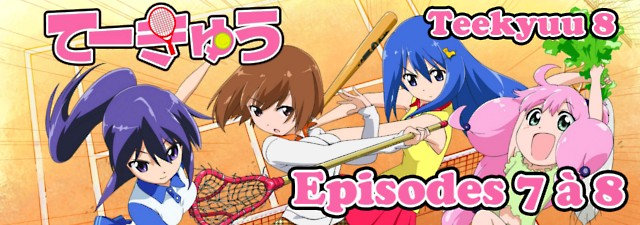
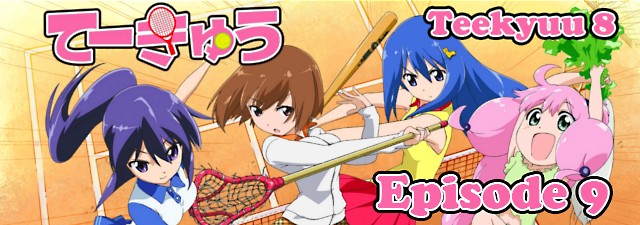
new release

diff --git a/2016-12-04.html b/2016-12-04.html
@@ -1,0 +1,105 @@
+<!DOCTYPE html>
+<html lang="fr-FR">
+	<head>
+		<title>Teekyuu Saison 8 Ep 9 vostfr | Nobluesky Fansub</title>
+		<meta charset="utf-8" />
+		<meta name=viewport content="width=980">
+		<link rel="Shortcut Icon" type="image/x-icon" href="favicon.ico" />
+		<link href="fonts/fonts.css" rel="stylesheet" type="text/css" />
+		<link href="style.css" rel="stylesheet" type="text/css" media="screen" />
+		<link rel="stylesheet" href="menu.css" type="text/css" />
+		<script src="jquery.js" type="text/javascript"></script>
+		<script src="background-script.js" type="text/javascript"></script>
+	</head>
+<body>
+<div class="banner">
+	<a title="Nobluesky Fansub" href="index.html"> <img class="banner" alt="Nobluesky Fansub" title="Nobluesky Fansub" src="images/banner.png"/> </a>
+</div>
+<!-- end banner -->
+<div id="menu-wrapper">
+	<div id="menu">
+		<script type="text/javascript">
+		$( '#menu' ).load( 'menu.html' );
+		</script>
+		<noscript>Activez javascript pour voir le menu!</noscript>
+	</div>
+</div>
+<!-- end #menu -->
+<div id="page-wrapper">
+<div id="sidebar-wrapper">
+	<div id="sidebar">
+		<script type="text/javascript">
+		$( '#sidebar' ).load( 'sidebar.html' );
+		</script>
+	</div>
+	<!-- end #sidebar -->
+</div>
+	<div id="article">
+		<div id="content">
+			<div class="post">
+				<h1 class="title">Teekyuu Saison 8 Ep 9 vostfr</h1>
+				<p class="meta"><span class="date">4 Décembre 2016</span><span class="posted">Posté par <a href="about.html#nobluesky">Nobluesky</a></span></p>
+				<div style="clear: both;">&nbsp;</div>
+				<div class="entry">
+					<img class="post-images" src="images/2016/news28.jpg" alt="" />
+					<p>Bonjouur~~</p>
+					<p>Voici l'épisode 9 de Teekyuu !</p>
+					<p>Avec des beaux édits tous frais, je n'en parle plus car ça devient banal. Mais comme je les fais tous, il faut bien que je m'en vante !</p>
+					<p>Une histoire. Une séparation, puis... Une rencontre qui changea sa vie.</p>
+					<p>Découvrez ce préquel sur l'histoire de Kanae, un moment touchant et inoubliable !</p>
+					<p>A bientôt, chers <strike>abonnés</strike> leechers !</p>
+					<h3>Téléchargements et streaming</h3>
+					<p class="links dl"><a href="http://jheberg.net/captcha/tks8-09/" class="button-dl">Jheberg</a></p>&nbsp; | &nbsp;
+					<p class="links dl"><a href="https://rutube.ru/video/4cf7896fe59e118e437283c287389ec8/" class="button-dl">Rutube</a></p>&nbsp; | &nbsp;
+					<p class="links dl"><a href="https://mega.nz/#!XA8kUboS!Zz4niNtHt3lF2RErqutFhp7wWtdoI3nh_EdLDsK6Drk" class="button-dl">Mega</a></p>&nbsp; | &nbsp;
+					<p class="links dl"><a href="https://openload.co/f/m3WdooxJByg/TKS8-09.mp4" class="button-dl">Openload</a></p>
+					<h3>Commentaires</h3>
+					<div id="disqus_thread"></div>
+					<script type="text/javascript">
+						/* * * CONFIGURATION VARIABLES: EDIT BEFORE PASTING INTO YOUR WEBPAGE * * */
+						var disqus_shortname = 'noblueskyfansub'; // required: replace example with your forum shortname
+
+						/* * * DON'T EDIT BELOW THIS LINE * * */
+						(function() {
+							var dsq = document.createElement('script'); dsq.type = 'text/javascript'; dsq.async = true;
+							dsq.src = '//' + disqus_shortname + '.disqus.com/embed.js';
+							(document.getElementsByTagName('head')[0] || document.getElementsByTagName('body')[0]).appendChild(dsq);
+						})();
+					</script>
+					<noscript>Activez javascript pour voir les commentaires.</noscript>
+					<a href="http://disqus.com" class="dsq-brlink">commentaires propulsés par <span class="logo-disqus">Disqus</span></a>
+				</div>
+			</div>
+			<div style="clear: both;">&nbsp;</div>
+		</div>
+		<!-- end #content -->
+		<div style="clear: both;">&nbsp;</div>
+	</div>
+</div>
+<!-- end #page -->
+<script type="text/javascript">
+$(window).scroll(function() {
+    if ($(this).scrollTop() < 1000) {
+        $("#footer").hide();
+    }
+    else {
+        $("#footer").show();
+    }
+});
+$(window).scroll(function() {
+  if ($(this).scrollTop() < 1000) {
+    $("footer").slideUp();
+      }
+  else {
+    $("footer").slideDown();
+      }
+});		
+</script>
+<div id="footer">
+	<script type="text/javascript">
+	$( '#footer' ).load( 'footer.html' );
+	</script>
+</div>
+<!-- end #footer -->
+</body>
+</html>

diff --git a/index.html b/index.html
@@ -36,7 +36,7 @@
 	<div class="slider-wrapper theme-default">
 		<div class="ribbon"></div>
 		<div id="slider" class="nivoSlider">
-			<a href="2016-11-27.html"><img src="images/img02.jpg" alt="" /></a><a href="2016-10-30.html"><img src="images/img01.jpg" alt="" /></a>
+			<a href="2016-12-04.html"><img src="images/img02.jpg" alt="" /></a><a href="2016-10-30.html"><img src="images/img01.jpg" alt="" /></a>
 		</div>
 	</div>
 <script type="text/javascript">
@@ -60,6 +60,21 @@
 				<div style="clear: both;">&nbsp;</div>
 				<div class="entry">
 					<p>Bienvenue sur le site de la Nobluesky Fansub !</p>
+				</div>
+			</div>
+			<div class="post">
+				<h1 class="title"><a href="2016-12-04.html">Teekyuu Saison 8 Ep 9 vostfr</a></h1>
+				<p class="meta"><span class="date">04 Décembre 2016</span><span class="posted">Posté par <a href="about.html#nobluesky">Nobluesky</a></span></p>
+				<p class="comcount"><a href="http://nobluesub.com/2016-12-04.html#disqus_thread">Commentaires</a></p>
+				<div style="clear: both;">&nbsp;</div>
+				<div class="entry">
+					<img class="post-images" src="images/2016/news33.jpg" alt="" />
+					<p>Bonjouur~~</p>
+					<p>Voici l'épisode 9 de Teekyuu !</p>
+					<p>Avec des beaux édits tous frais, je n'en parle plus car ça devient banal. Mais comme je les fais tous, il faut bien que je m'en vante !</p>
+					<p>Une histoire. Une séparation, puis... Une rencontre qui changea sa vie.</p>
+					<p>Découvrez ce préquel sur l'histoire de Kanae, un moment...</p>
+					<p class="links"><a href="2016-12-04.html" class="button">Lire la suite</a></p>
 				</div>
 			</div>
 			<div class="post">
@@ -112,19 +127,6 @@
 					<p>Dragon dont je ne connais pas la période de gestation. D'ailleurs ça serait plutôt incubation, car ça pond des œufs un dragon nan ?</p>
 					<p>Je le rappelle de nouveau car ça ne fait pas de mal : inutile de prendre la série au sérieux. Les clichés sont volontaires...</p>
 					<p class="links"><a href="2016-10-30.html" class="button">Lire la suite</a></p>
-				</div>
-			</div>
-			<div class="post">
-				<h1 class="title"><a href="2016-10-19.html">Teekyuu Saison 8 Ep 2 vostfr</a></h1>
-				<p class="meta"><span class="date">19 Octobre 2016</span><span class="posted">Posté par <a href="about.html#nobluesky">Nobluesky</a></span></p>
-				<p class="comcount"><a href="http://nobluesub.com/2016-10-19.html#disqus_thread">Commentaires</a></p>
-				<div style="clear: both;">&nbsp;</div>
-				<div class="entry">
-					<img class="post-images" src="images/2016/news28.jpg" alt="" />
-					<p>Bonsoir à tous,</p>
-					<p>on se retrouve pour le deuxième épisode !</p>
-					<p>Petite note : certains restaurants japonais ont...</p>
-					<p class="links"><a href="2016-10-19.html" class="button">Lire la suite</a></p>
 				</div>
 			</div>
 			<div id="button-page-wrapper">

diff --git a/page2.html b/page2.html
@@ -32,7 +32,7 @@
 	<div class="slider-wrapper theme-default">
 		<div class="ribbon"></div>
 		<div id="slider" class="nivoSlider">
-			<a href="2016-11-27.html"><img src="images/img02.jpg" alt="" /></a><a href="2016-10-30.html"><img src="images/img01.jpg" alt="" /></a>
+			<a href="2016-12-04.html"><img src="images/img02.jpg" alt="" /></a><a href="2016-10-30.html"><img src="images/img01.jpg" alt="" /></a>
 		</div>
 	</div>
 <script type="text/javascript">
@@ -51,6 +51,19 @@
 </div>
 	<div id="feed">
 		<div id="content">
+			<div class="post">
+				<h1 class="title"><a href="2016-10-19.html">Teekyuu Saison 8 Ep 2 vostfr</a></h1>
+				<p class="meta"><span class="date">19 Octobre 2016</span><span class="posted">Posté par <a href="about.html#nobluesky">Nobluesky</a></span></p>
+				<p class="comcount"><a href="http://nobluesub.com/2016-10-19.html#disqus_thread">Commentaires</a></p>
+				<div style="clear: both;">&nbsp;</div>
+				<div class="entry">
+					<img class="post-images" src="images/2016/news28.jpg" alt="" />
+					<p>Bonsoir à tous,</p>
+					<p>on se retrouve pour le deuxième épisode !</p>
+					<p>Petite note : certains restaurants japonais ont...</p>
+					<p class="links"><a href="2016-10-19.html" class="button">Lire la suite</a></p>
+				</div>
+			</div>
 			<div class="post">
 				<h1 class="title"><a href="2016-10-13.html">Teekyuu Saison 8 Ep 1 vostfr</a></h1>
 				<p class="meta"><span class="date">13 Octobre 2016</span><span class="posted">Posté par <a href="about.html#nobluesky">Nobluesky</a></span></p>
@@ -105,19 +118,6 @@
 					<p>Ganbatte, Hayato !!</p>
 					<p>Bon épisode, et à la prochaine...</p>
 					<p class="links"><a href="2016-08-06.html" class="button">Lire la suite</a></p>
-				</div>
-			</div>
-			<div class="post">
-				<h1 class="title"><a href="2016-07-21.html">Future GPX Cyber Formula BD 35 vostfr</a></h1>
-				<p class="meta"><span class="date">21 Juillet 2016</span><span class="posted">Posté par <a href="about.html#nobluesky">Nobluesky</a></span></p>
-				<p class="comcount"><a href="http://nobluesub.com/2016-07-21.html#disqus_thread">Commentaires</a></p>
-				<div style="clear: both;">&nbsp;</div>
-				<div class="entry">
-					<img class="post-images" src="images/2016/news23.jpg" alt="" />
-					<p>Bonjour à tous !</p>
-					<p>J'espère que l'été se passe bien pour vous. Avec les vacances, l'impatience monte pour retrouver l'épisode suivant, je peux le voir sur les stats des visites :P Et si en plus je suis à la bourre pile au moment plein de suspense... Gomen !</p>
-					<p>Bon, voici les évènements de l'après-course d'Allemagne...</p>
-					<p class="links"><a href="2016-07-21.html" class="button">Lire la suite</a></p>
 				</div>
 			</div>
 			<div id="button-page-wrapper">

diff --git a/teekyuu8.html b/teekyuu8.html
@@ -94,6 +94,12 @@
 					<p class="links dl"><a href="https://rutube.ru/video/185f33f123c798c23d503f34a183df07/" class="button-dl">Rutube</a></p>&nbsp; | &nbsp;
 					<p class="links dl"><a href="https://mega.nz/#!zEFQSSYC!0O8jOrEir4zYdhi6euPla5RJabQQ1RrrlCdYU9dHPBA" class="button-dl">Mega</a></p>&nbsp; | &nbsp;
 					<p class="links dl"><a href="https://openload.co/f/vhkolGwlfvA/TKS8-07V2.mp4" class="button-dl">Openload</a></p>
+					<br>
+					Episode 09 :
+					<p class="links dl"><a href="http://jheberg.net/captcha/tks8-09/" class="button-dl">Jheberg</a></p>&nbsp; | &nbsp;
+					<p class="links dl"><a href="https://rutube.ru/video/4cf7896fe59e118e437283c287389ec8/" class="button-dl">Rutube</a></p>&nbsp; | &nbsp;
+					<p class="links dl"><a href="https://mega.nz/#!XA8kUboS!Zz4niNtHt3lF2RErqutFhp7wWtdoI3nh_EdLDsK6Drk" class="button-dl">Mega</a></p>&nbsp; | &nbsp;
+					<p class="links dl"><a href="https://openload.co/f/m3WdooxJByg/TKS8-09.mp4" class="button-dl">Openload</a></p>
 				</div>
 			</div>
 			<div style="clear: both;">&nbsp;</div>

diff --git a/archives.html b/archives.html
@@ -47,6 +47,7 @@
 					<div>
 					<!-- here comes spoiler content -->
 					<div style="clear: both;">&nbsp;</div>
+					<p><a href="2016-07-21.html" target="_blank" >Future GPX Cyber Formula BD 35 vostfr</a></p>
 					<p><a href="2016-06-26.html" target="_blank" >Future GPX Cyber Formula BD 34 vostfr</a></p>
 					<p><a href="2016-06-16.html" target="_blank" >Future GPX Cyber Formula BD 33 vostfr</a></p>
 					<p><a href="2016-05-29.html" target="_blank" >Future GPX Cyber Formula BD 32 vostfr</a></p>

diff --git a/sidebar.html b/sidebar.html
@@ -34,9 +34,9 @@
 					<span style="width: 10%"></span>
 					</div>
 				</li>
-				<li>Teekyuu S8 Ep 09 : 80%
+				<li>Teekyuu S8 Ep 09 : 100%
 					<div class="progress-bar blue stripes" title="Progression" >
-					<span style="width: 80%"></span>
+					<span style="width: 100%"></span>
 					</div>
 				</li>
 			</ul>
